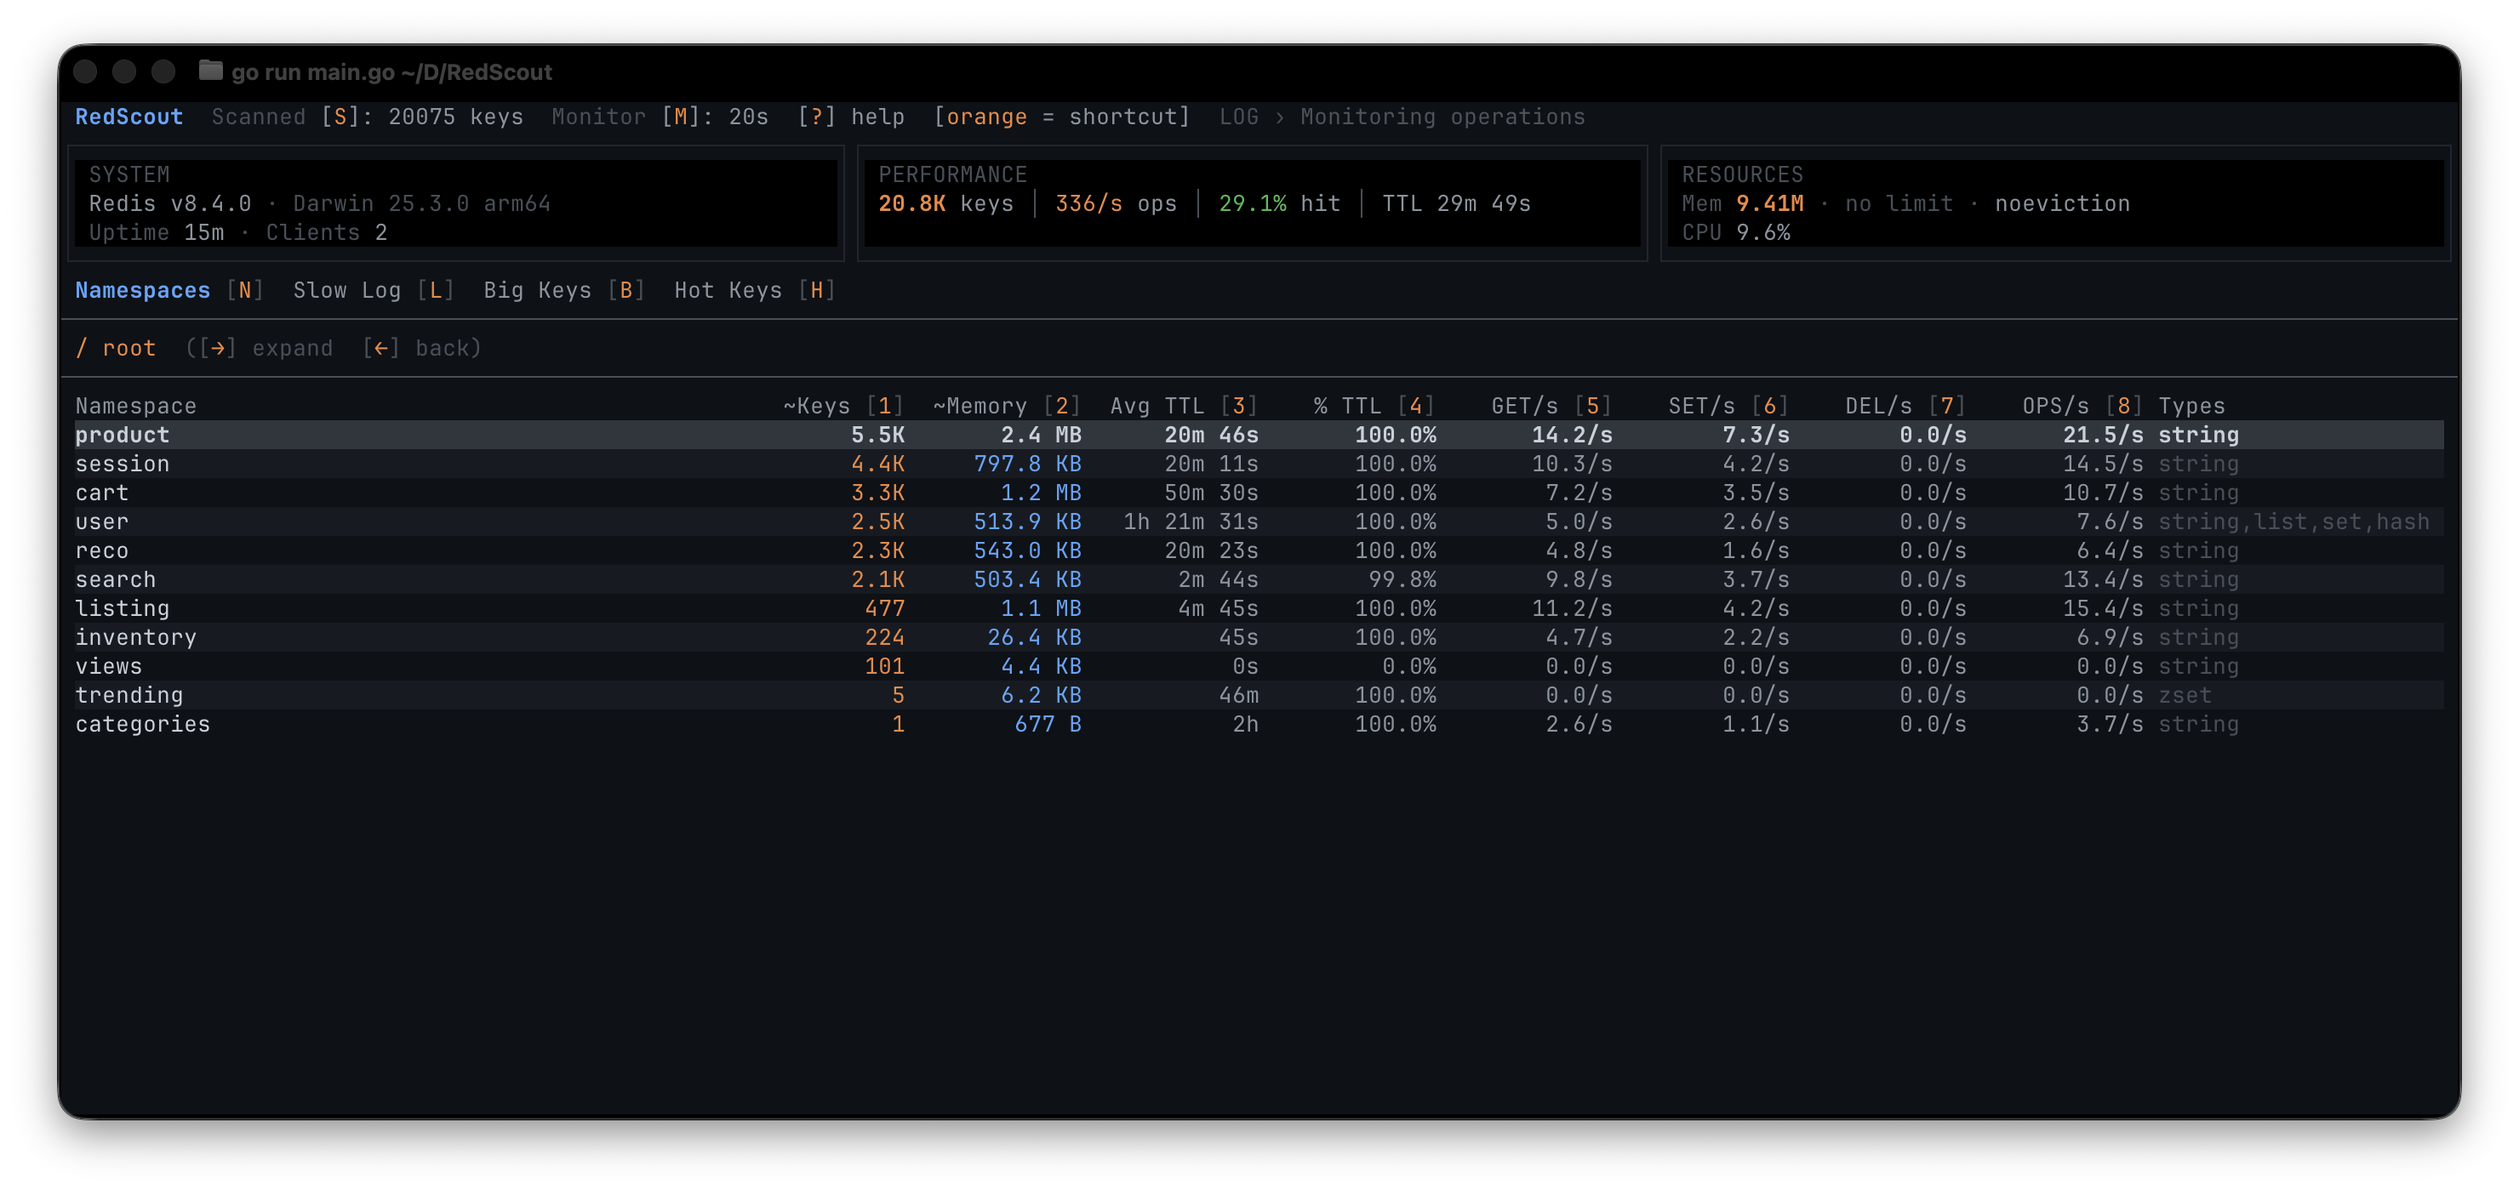
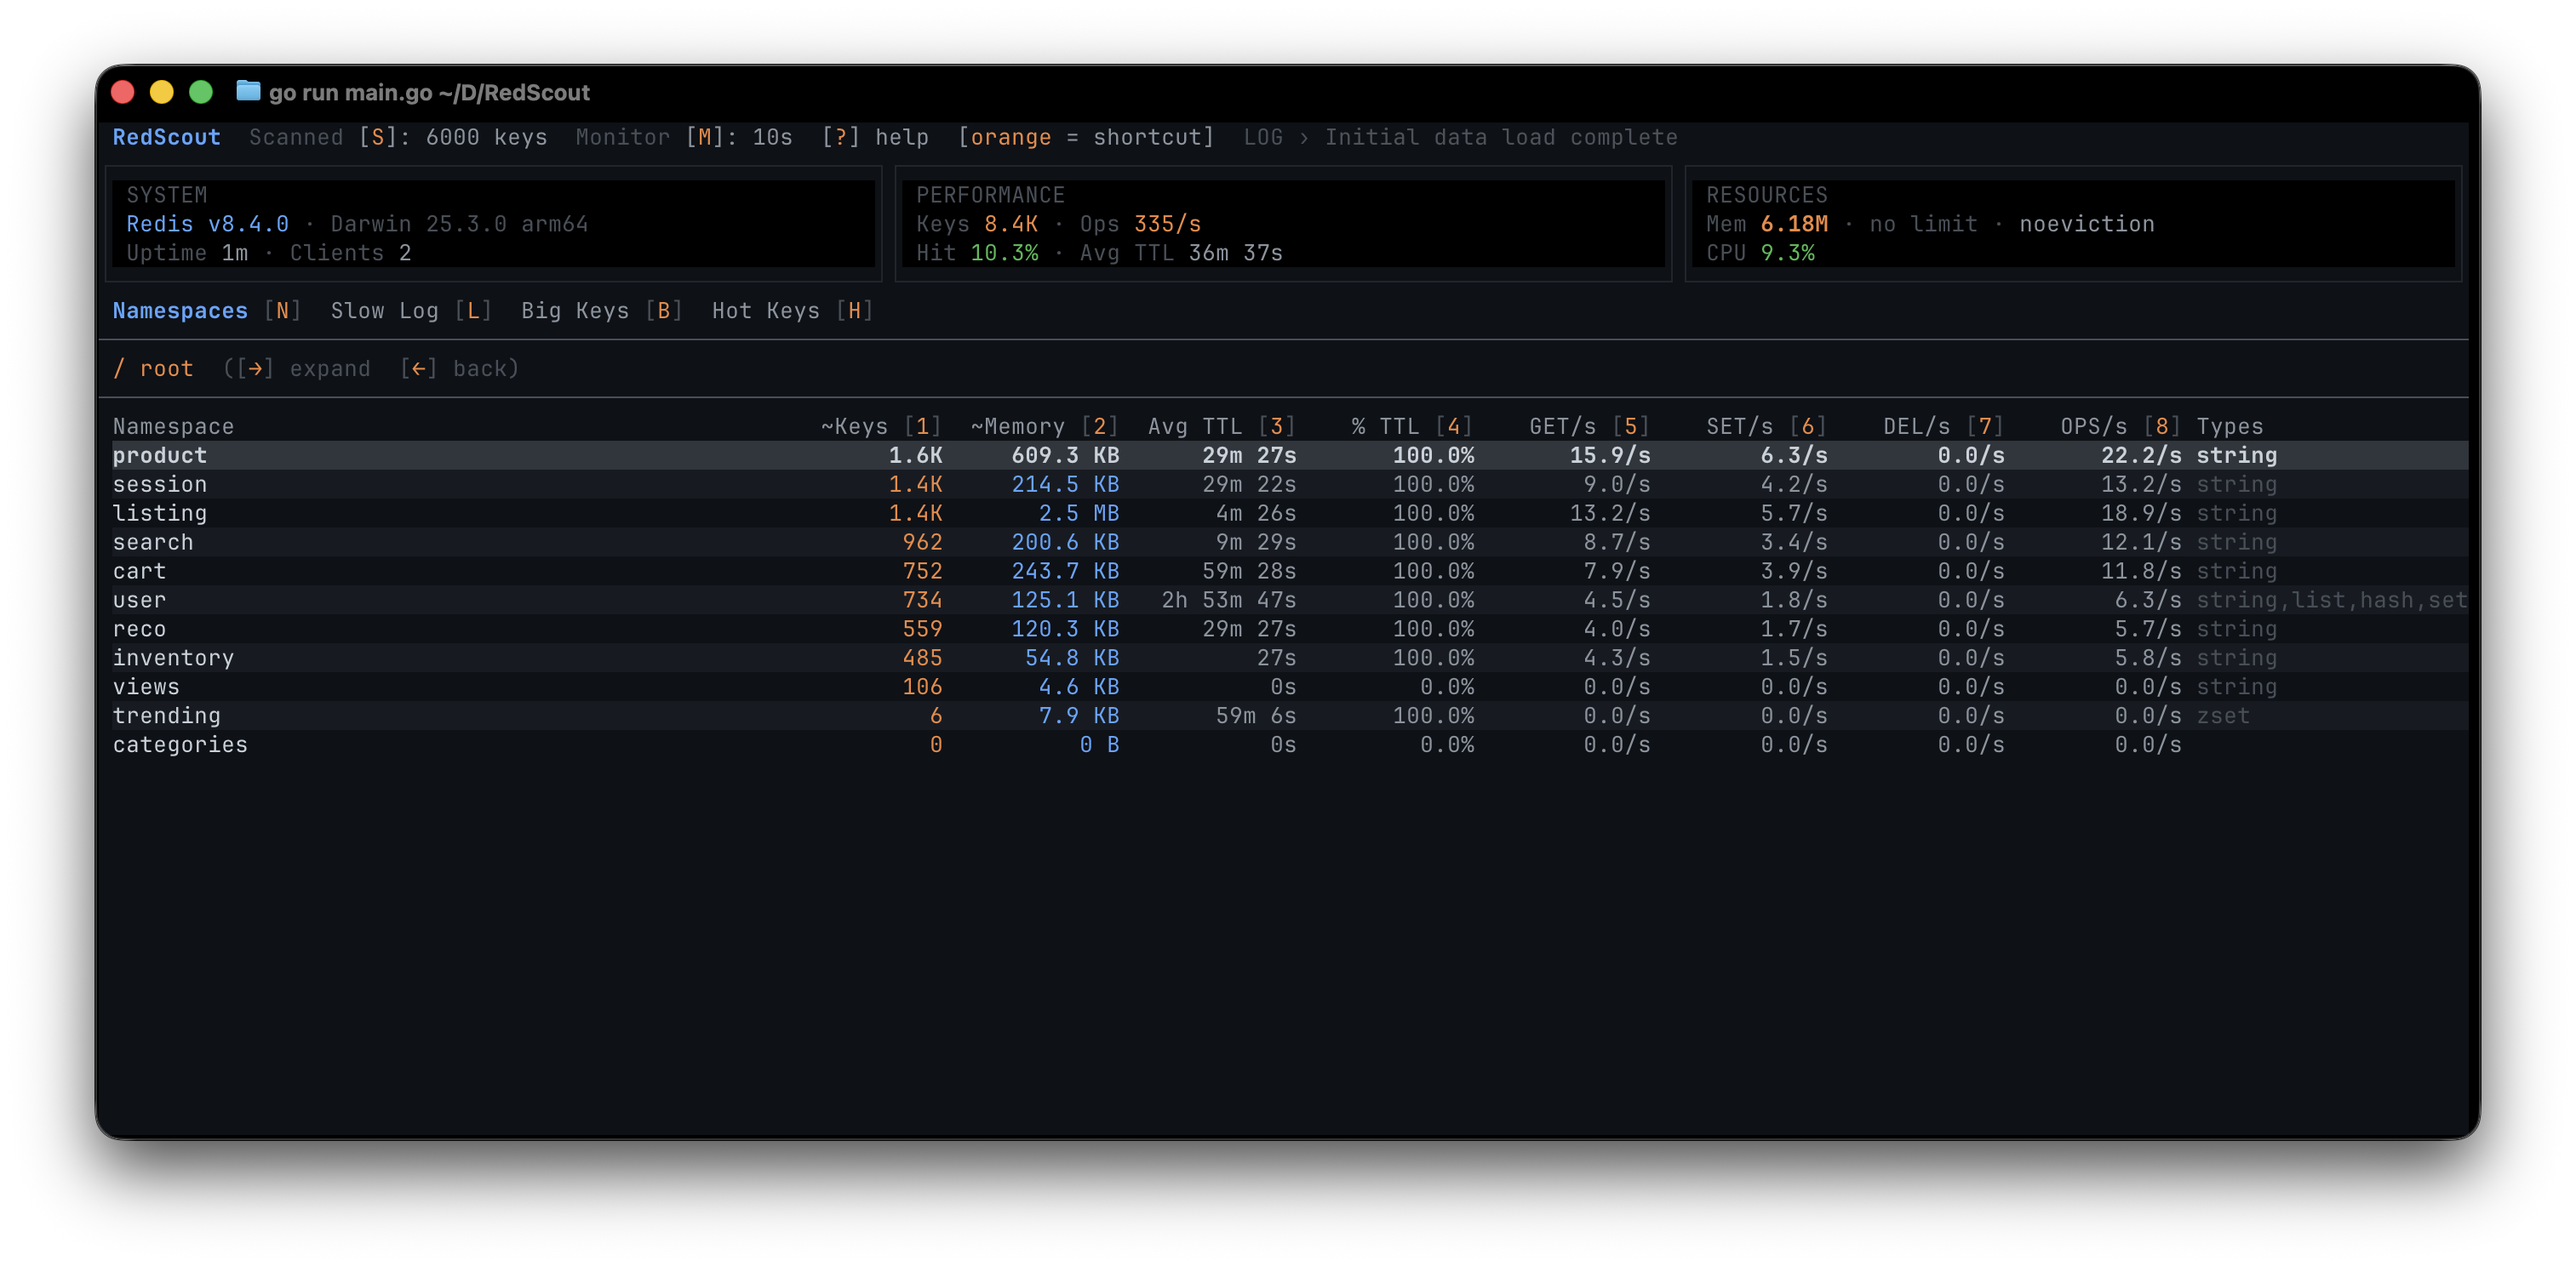
fix: update readme (#11)

diff --git a/lib/ui/views/header.go b/lib/ui/views/header.go
@@ -57,7 +57,7 @@ func (header *HeaderView) updateSystem(info *models.RedisInfo) {
 	if len(os) > 20 {
 		os = os[:20]
 	}
-	text := fmt.Sprintf(" [#484f58]SYSTEM[-]\n [#8b949e]Redis v%s[-] [#484f58]· %s[-]\n [#484f58]Uptime[-] [#8b949e]%s[-] [#484f58]· Clients[-] [#8b949e]%d[-]",
+	text := fmt.Sprintf(" [#484f58]SYSTEM[-]\n [#58a6ff]Redis v%s[-] [#484f58]· %s[-]\n [#484f58]Uptime[-] [#8b949e]%s[-] [#484f58]· Clients[-] [#8b949e]%d[-]",
 		info.Server.RedisVersion,
 		os,
 		utils.FormatUptime(info.Server.Uptime),
@@ -70,7 +70,7 @@ func (header *HeaderView) updatePerformance(info *models.RedisInfo) {
 	totalKeys := info.Keyspace["db0"].Keys
 	avgTTL := info.Keyspace["db0"].AvgTTL
 
-	text := fmt.Sprintf(" [#484f58]PERFORMANCE[-]\n [#f0883e::b]%s[-::-] [#8b949e]keys[-] [#484f58]│[-] [#f0883e]%s[-] [#8b949e]ops[-] [#484f58]│[-] [#3fb950]%.1f%%[-] [#8b949e]hit[-] [#484f58]│[-] [#8b949e]TTL %s[-]",
+	text := fmt.Sprintf(" [#484f58]PERFORMANCE[-]\n [#484f58]Keys[-] [#f0883e]%s[-] [#484f58]· Ops[-] [#f0883e]%s[-]\n [#484f58]Hit[-] [#3fb950]%.1f%%[-] [#484f58]· Avg TTL[-] [#8b949e]%s[-]",
 		utils.FormatNumber(float64(totalKeys)),
 		utils.FormatOpsPerSec(float64(info.Stats.OpsPerSec)),
 		info.Computed.HitRate*100,
@@ -98,7 +98,7 @@ func (header *HeaderView) updateMemory(info *models.RedisInfo) {
 	if info.CPU.SystemTime == 0 && info.CPU.UserTime == 0 {
 		cpuPart = "[#484f58]CPU[-] [#8b949e]N/A[-]"
 	} else {
-		cpuPart = fmt.Sprintf("[#484f58]CPU[-] [#8b949e]%.1f%%[-]", info.Computed.CPUUsage*100)
+		cpuPart = fmt.Sprintf("[#484f58]CPU[-] [#3fb950]%.1f%%[-]", info.Computed.CPUUsage*100)
 	}
 
 	text := fmt.Sprintf(" [#484f58]RESOURCES[-]\n %s [#484f58]·[-] [#8b949e]%s[-]\n %s",
